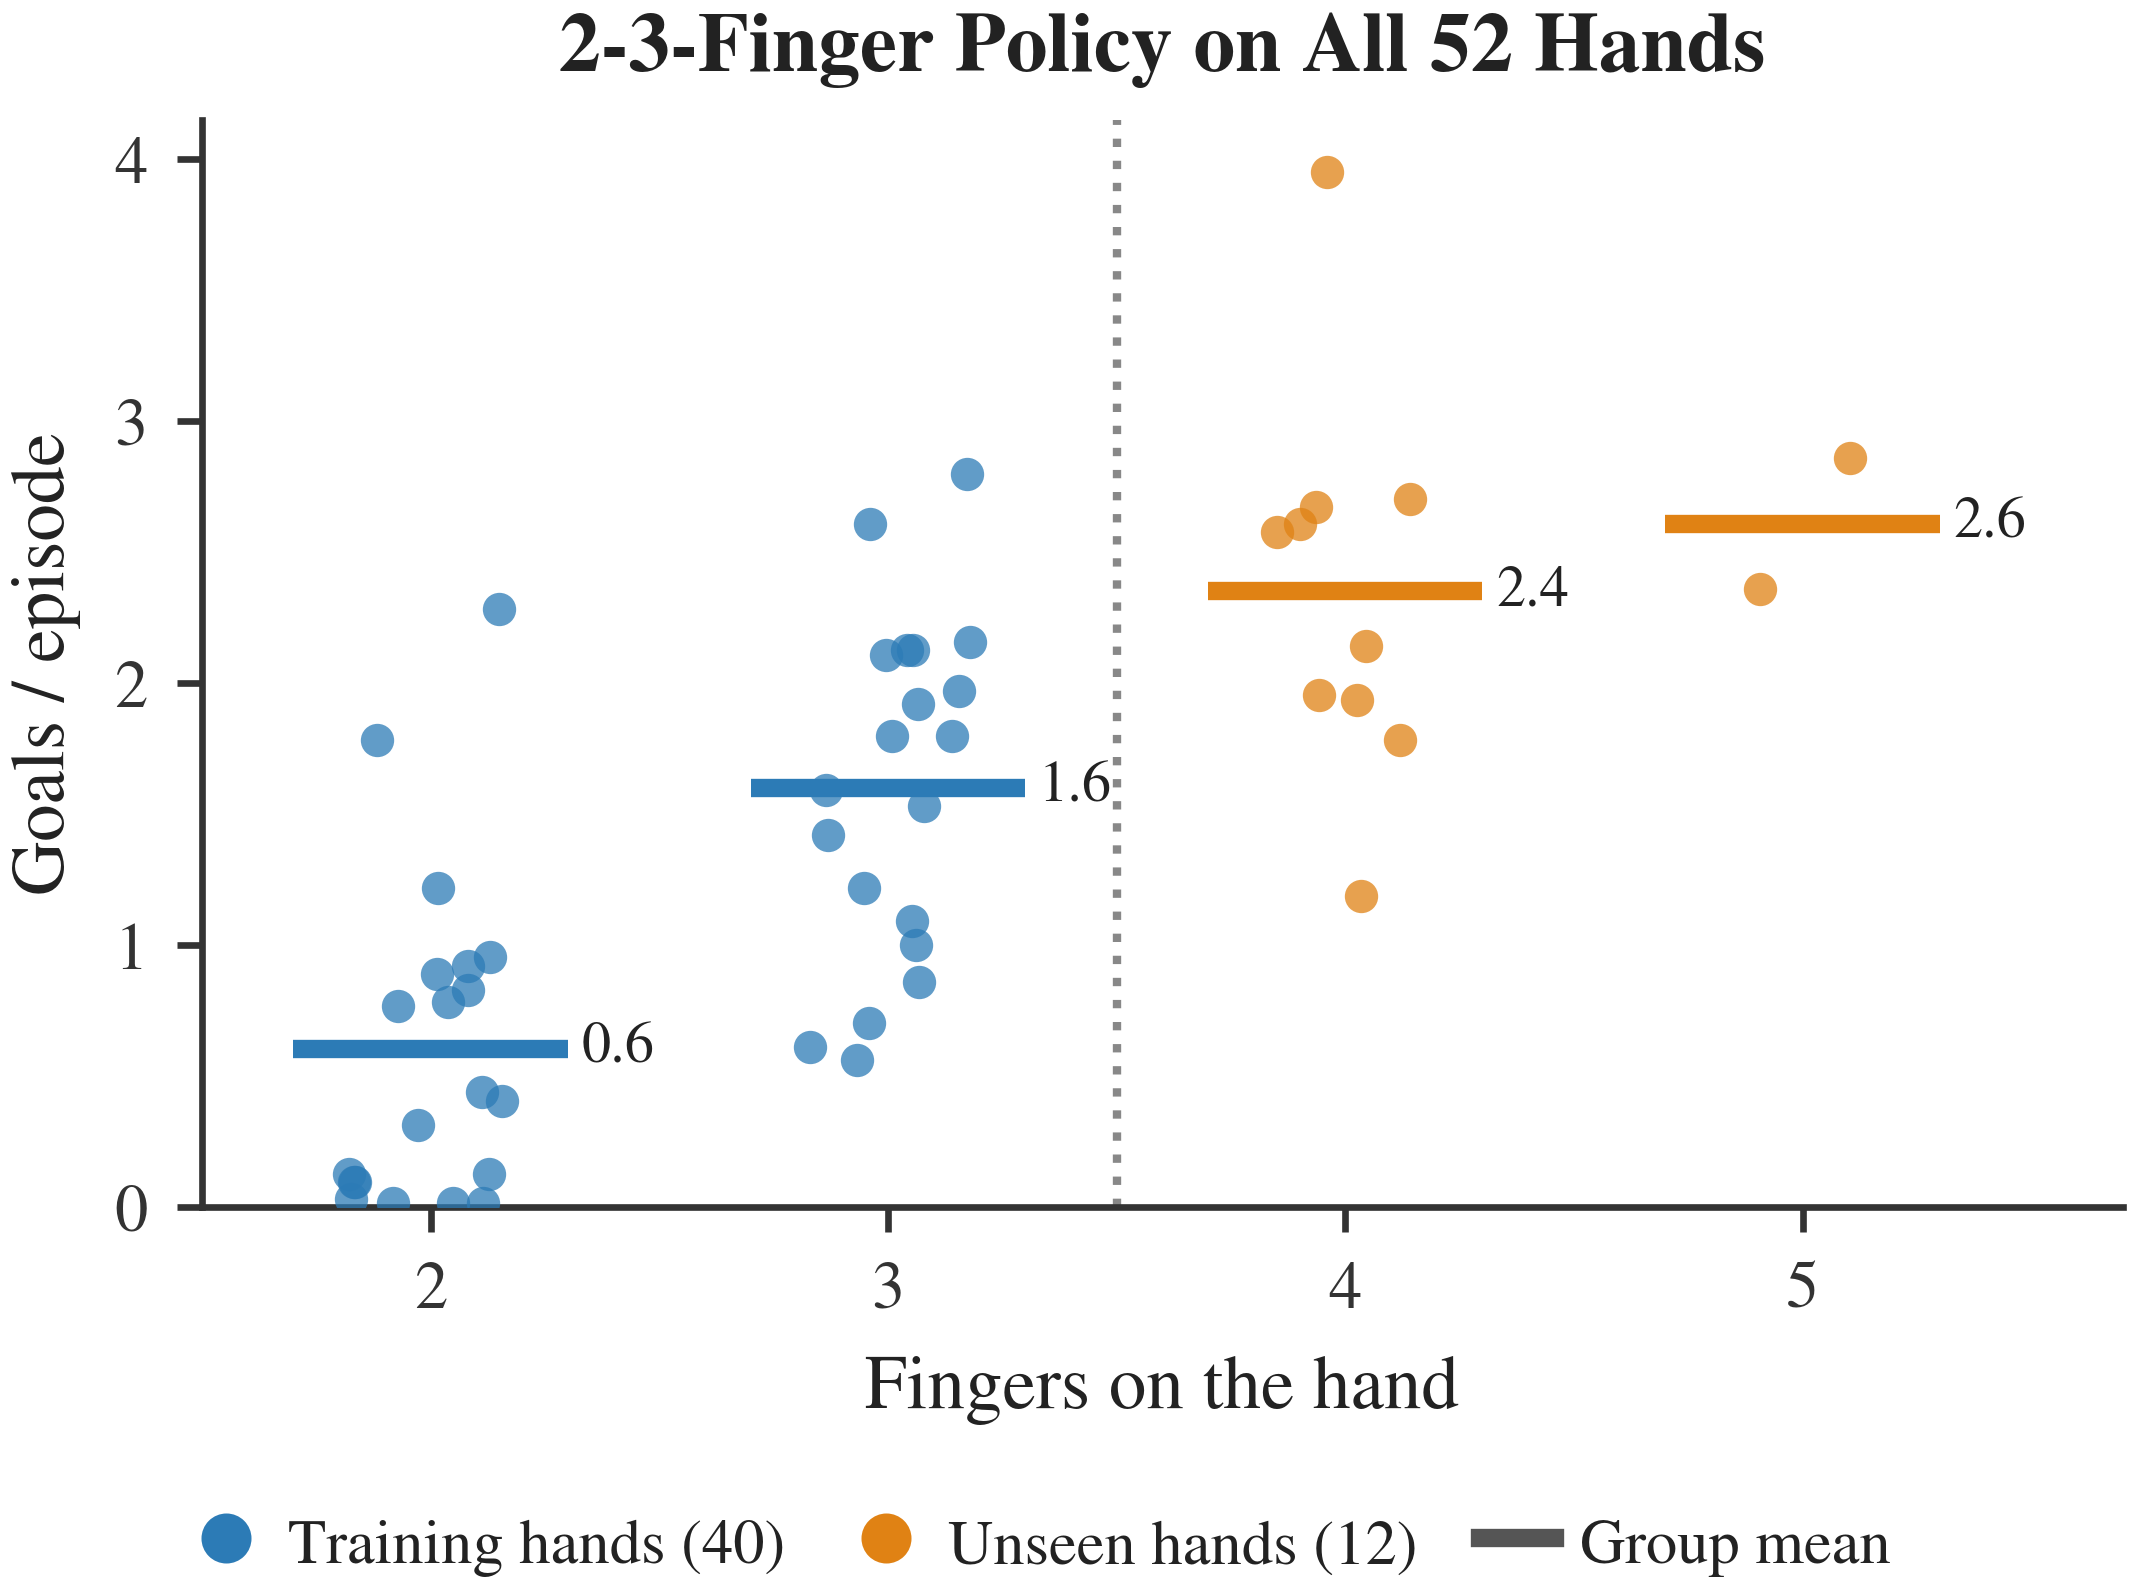
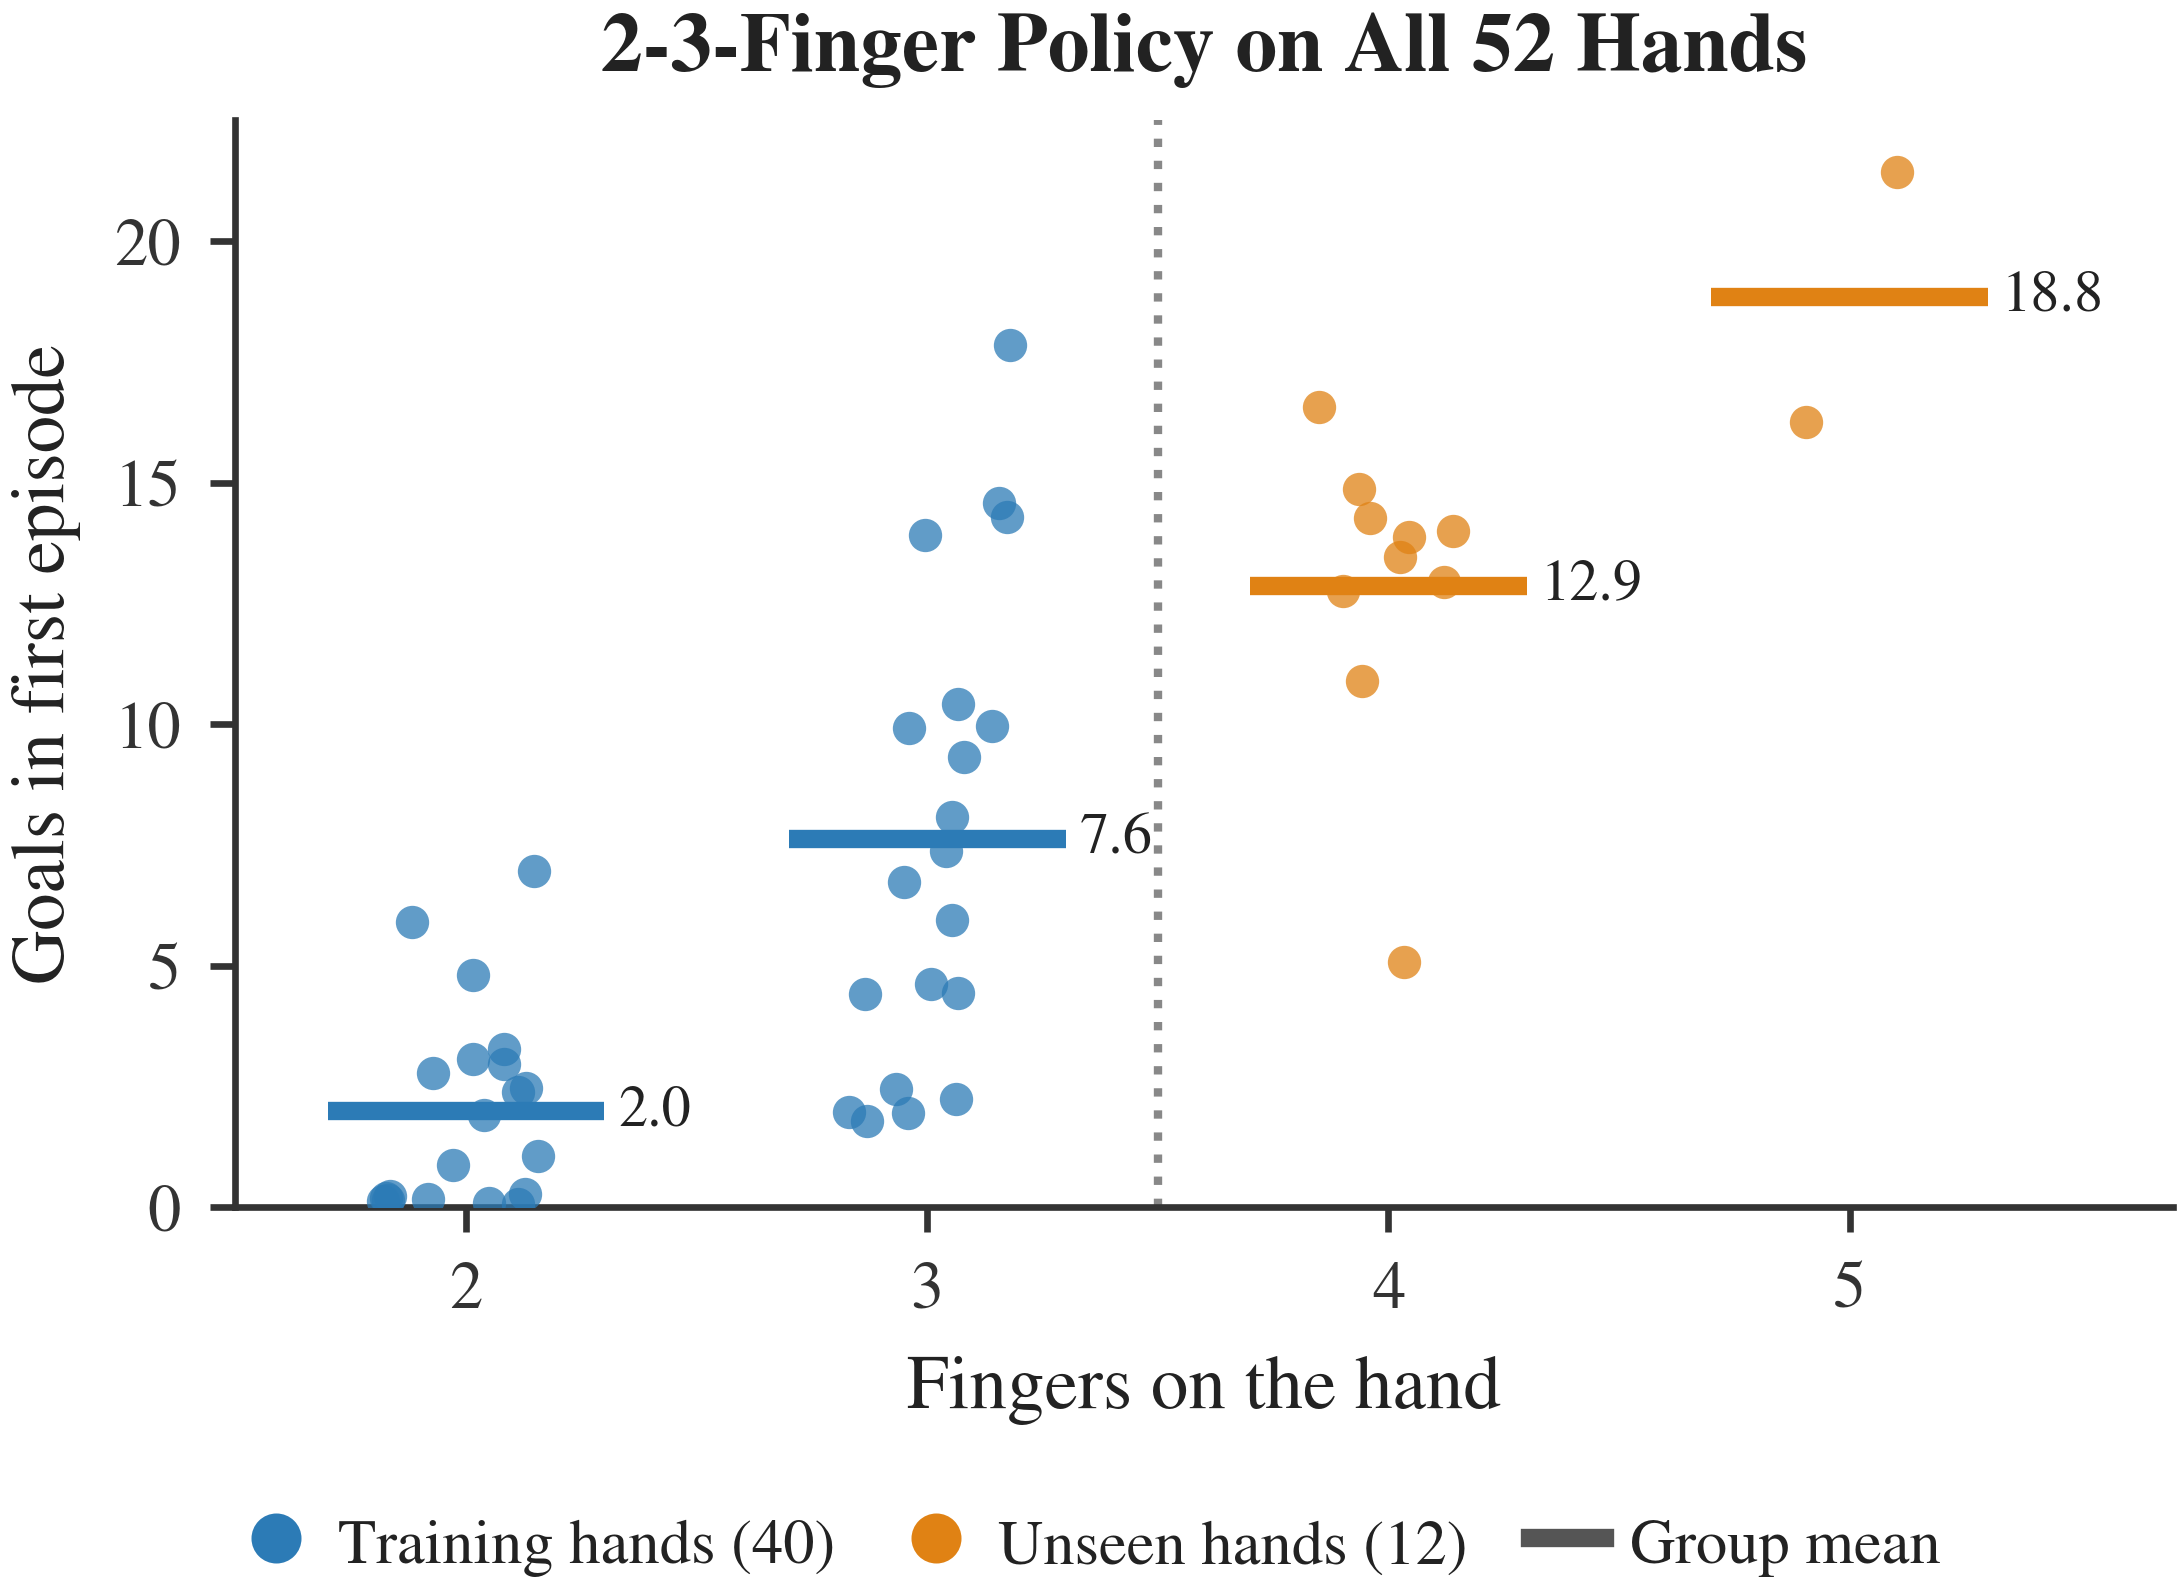
plots/h4: embodiment_generalization from sampled actions with per-slot sigma; README
Claude-Session: https://claude.ai/code/session_01VEjfLD7vkNCwPYPC2HsL71

diff --git a/experiments/08oct_repro_wuji_full/plots/README.md b/experiments/08oct_repro_wuji_full/plots/README.md
@@ -73,11 +73,12 @@ identical settings. These are final checkpoints (epoch 5000), 1 seed each.
   comparison either.
 - `embodiment_generalization.png` runs the same E4 policy (epoch 5000) on all 52 finger-drop hands: its 40 training
   hands with 2 or 3 fingers and 12 hands with 4 or 5 fingers that it never trained on. One dot per hand, grouped by
-  finger count. The unseen hands score higher than the training hands: 2.4 goals per episode on average against 1.1.
-  More fingers score more within the training set, from 0.6 with 2 fingers to 1.6 with 3. The unseen hands continue
-  that trend: 2.4 with 4 fingers and 2.6 with 5. Thumb + one finger is the worst group (0.02-0.12). All absolute
-  numbers are low and come from greedy first-episode evaluation; this evaluation scores the training hands at about
-  half of the training log's 2.3 goals per episode (being checked).
+  finger count; goals in each env's first episode, 64 envs per hand, sampled actions. The unseen hands score far
+  higher than the training hands: 13.9 goals on average against 4.8. Within the training set more fingers score
+  more (2.0 with 2 fingers, 7.6 with 3), and the unseen hands continue the trend (12.9 with 4, 18.8 with 5; the
+  left full hand 21.4). Thumb + one finger is the worst group. The training hands' 4.8 matches the same checkpoint
+  on its own 40-hand layout (4.6), so the larger layout costs nothing. An earlier greedy run understated every hand
+  about 4x, and a sampled run before the per-slot sigma fix (_play_worker._resize_sigma) understated them again.
 
 ## H5: domain randomisation over the OOD axes (`h5_dr_on_ood_axes/`)
 
